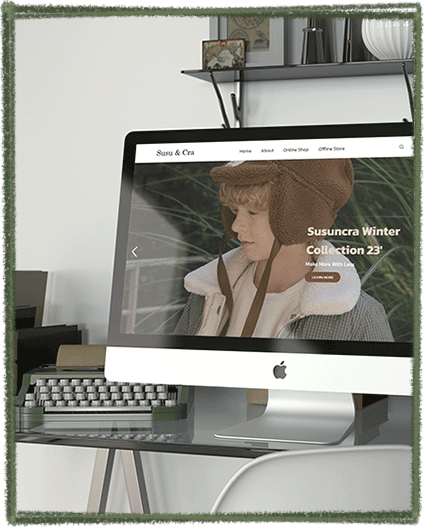
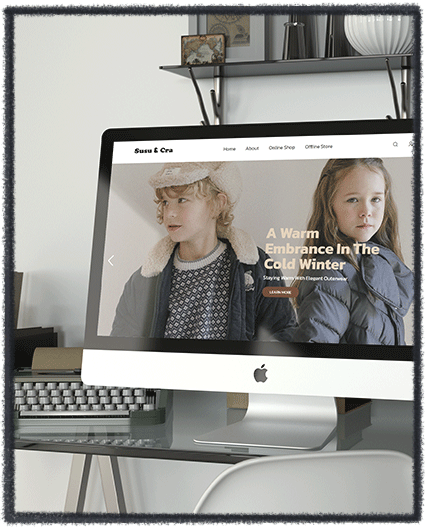
up

diff --git a/webdesign/코끼리/ME mockup site/css/style1.css b/webdesign/코끼리/ME mockup site/css/style1.css
@@ -1,13 +1,15 @@
-@import url('https://fonts.googleapis.com/css2?family=Noto+Sans+KR:wght@100;200;300;400;500;600;700;800;900&family=Titillium+Web:wght@200;300;400;600;700;900&display=swap');
-
 
 *{
-    margin: 0; 
-    padding: 0;
-    box-sizing: border-box;
-    font-family: 'Titillium Web', sans-serif;
+   margin: 0;
+   padding: 0;
+   box-sizing: border-box;
 }
-
+.black-han sans-regular {
+   font-family: "Black Han Sans", sans-serif;
+   font-weight: 400;
+   font-style: normal;
+ }
+ 
 body{
     width: 1200px; 
     margin:auto;
@@ -17,18 +19,21 @@ body{
 
 header{
    height: 100px;
-   padding-top: 30px;
+   padding-top: 50px;
 }
 
 .title h1{
-    font-size: 3rem;
+    font-size: 2.7rem;
     text-align: center;
-    line-height: 3;
-    color: #8c8c8c;
+    line-height: 1;
+    color: #051b10;
+    font-family: "Black Han Sans", sans-serif;
+   font-weight: normal;
 }
 
 .title span{
-    color:  #ECA6AC;
+    color:  #0d462c;
+    font-size: 4.5rem;
 }
 
 /* section */
@@ -43,106 +48,7 @@ section{
     padding: 0 .5rem;
   }
 
-/* section design */
 
-.design{
-    padding-top: 4rem;
-}
-
-.design h1{
-    font-size: 3rem;
-    text-align: center;
-    line-height: 3;
-    color: #8c8c8c;
-}
-
-/* section web design */
-/* section mobile design */
-
-
-.design .web{
-    overflow: scroll;
-    border: solid 1px #fcc4c9;
-    height: 500px;
-    width: 1032px;
-    float: left;
-    margin: 1rem 5rem;
-}
-.design .mobile{
-    overflow: scroll;
-    border: solid 1px #fcc4c9;
-    height: 500px;
-    width: 650px;
-    float: left;
-    /* margin-left: 2rem; */
-}
-.design .mobile2{
-    overflow: scroll;
-    border: solid 1px #fcc4c9;
-    height: 500px;
-    width: 350px;
-    float: left;
-    margin-left: 2rem;
-}
-
-.design .mobile img,
-.design .mobile2 img,
-.design .web img{
-    width: 100%;
-    border-top: 1px solid #ECA6AC;
-}
-
-.design .web h3,
-.design .mobile h3,
-.design .mobile2 h3{
-    font-size: 1.3rem;
-    text-align: center;
-    padding: .2rem;
-    color: #ECA6AC;
-}
-.design .responsible{
-    margin: 0 5rem;
-}
-
-
-
-
-
-/* scrollbar */
-.web::-webkit-scrollbar{
-    width: 12px;
-}
-.web::-webkit-scrollbar-track{
-   background-color: #ffffff;
-   border-radius: 5px;
-}
-.web::-webkit-scrollbar-thumb{
-   background-color:#fcc4c9;
-   border-radius: 5px;
-}
-.mobile::-webkit-scrollbar{
-    width: 12px;
-}
-.mobile::-webkit-scrollbar-track{
-   background-color: #ffffff;
-   border-radius: 5px;
-}
-.mobile::-webkit-scrollbar-thumb{
-   background-color:#fcc4c9;
-   border-radius: 5px;
-}
-.mobile2::-webkit-scrollbar{
-    width: 12px;
-}
-.mobile2::-webkit-scrollbar-track{
-   background-color: #ffffff;
-   border-radius: 5px;
-}
-.mobile2::-webkit-scrollbar-thumb{
-   background-color:#fcc4c9;
-   border-radius: 5px;
-}
-   
 /* footer */
 footer{
     clear: both;
@@ -159,7 +65,7 @@ footer{
     height: 3rem;
     font-size: 1.5rem;
     list-style: none;
-    background: #ECA6AC;
+    background: #0d462c;
     border: 0;
 }
 
@@ -189,37 +95,7 @@ footer{
  .concept img{
    width: 100%;
  }
- .design{
-    width: 758px;
-    display: flex;
-    flex-direction: column;
-    align-items: center;
-    /* gap: 2rem; */
- }
 
-  .design h1{
-    font-size: 2rem;
-    text-align: center;
- }
-
- .design .web{
-    width: 650px;
-    height: 450px;
-    float: none;
- }
-
- .design .mobile{
-    height: 450px;
-    width: 350px;
-    margin-left: 0;
- }
- .design .mobile2{
-    height: 450px;
-    width: 270px;
- }
- .design .responsible{
-    margin: 0;
-}
 }
 
 
@@ -250,32 +126,7 @@ footer{
      .concept img{
        width: 100%;
      }
-     .design{
-        width: 350px;
-     }
-    
-      .design h1{
-        font-size: 2.5rem;
-        line-height: 2;
-     }
-    
-     .design .web{
-        width:350px;
-        height: 250px;
-     }
-     .design .mobile{
-        width:350px;
-        height: 450px;
-     }
-     .design .mobile2{
-        width:350px;
-        height: 500px;
-        margin-left: 0;
-        margin-top: 2rem
-     }
-     .design .responsible{
-        padding: 1rem;
-     }
+
      .footer{
         width: 350px;
         margin-left: 0;

diff --git a/webdesign/코끼리/ME mockup site/index.html b/webdesign/코끼리/ME mockup site/index.html
@@ -6,23 +6,28 @@
     <meta name="viewport" content="width=device-width, initial-scale=1.0">
     <title>M.E Redesign</title>
     <link rel="stylesheet" href="css/style1.css">
+
+    <link href="https://fonts.googleapis.com/css2?family=Black+Han+Sans&display=swap" rel="stylesheet">
 </head>
 
 <body>
     <div class="project">
         <header class="title">
-            <h1><span>해운대코끼리정형외과</span>Homepage Redesign</h1>
+            <h1><span>해운대코끼리정형외과<br></span>Homepage Redesign</h1>
         </header>
 
         <footer class="footer">
-            <button class="btn"><a href="../린츠 홈페이지/index.html" target="_blank">WEB</a></button>
-            <button class="btn"><a href="#">TOP</a></button>
+            <button class="btn"><a href="../index.html" target="_blank">WEB</a></button>
         </footer>
 
         <section class="concept">
-            <img src="image/rinz_mockup2.jpg" alt="">
+            <img src="ME_mockup.jpg" alt="">
         </section>
 
+        <footer class="footer">
+            <button class="btn"><a href="../../../exhibitions.html">BACK</a></button>
+            <button class="btn"><a href="#">TOP</a></button>
+        </footer>
     </div>
 </body>
 

diff --git a/exhibitions.html b/exhibitions.html
@@ -131,7 +131,7 @@
                           <h1 class="fw-bolder mb-3 ">Medielephant Homepage Redesign</h1>
                           <p class="text-warning fs-3 opacity-75">Visual Studio Code</p>
                           <p class="fs-0"></p>
-                          <a href="webdesign/코끼리/index.html" class="text-warning p-0 fs-"><span class="fw-bolder">Details </span><img class="ms-3" src="assets/img/icons/long-arrow2.png" alt="" /></a>
+                          <a href="webdesign/코끼리/ME mockup site/index.html" class="text-warning p-0 fs-"><span class="fw-bolder">Details </span><img class="ms-3" src="assets/img/icons/long-arrow2.png" alt="" /></a>
                         </div>
                       </div>
                     </div>
